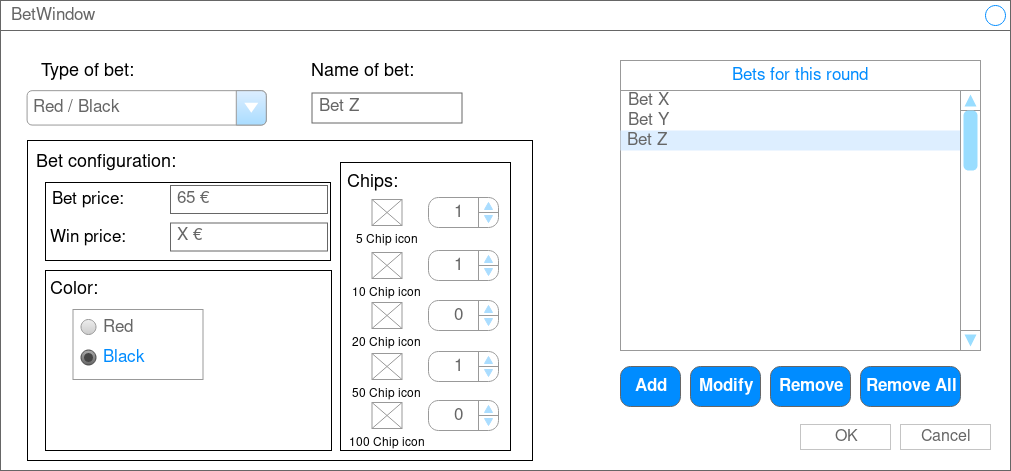
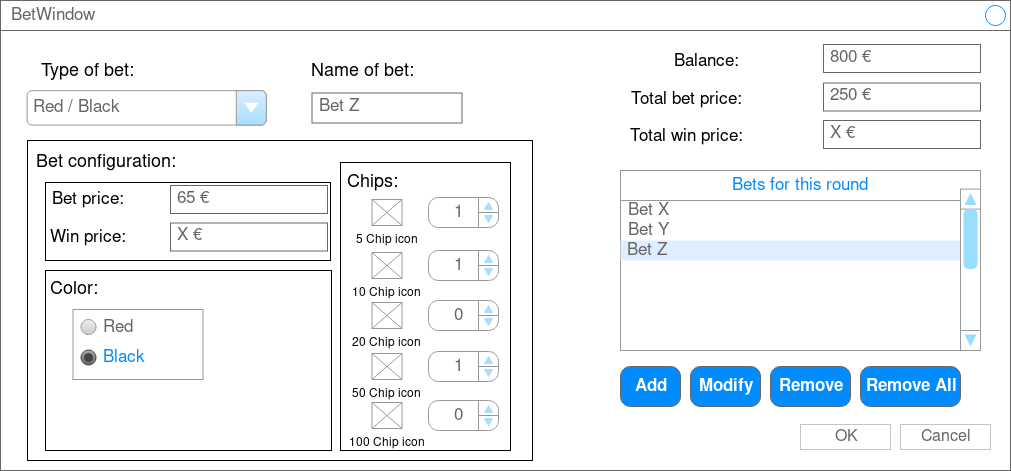
Working on the report.

Changed region(s): [[0.6133, 0.0892, 0.9812, 0.3864], [0.6133, 0.4161, 0.9812, 0.5648], [0.7052, 0.3567, 0.8586, 0.4161]]

diff --git a/cpm-seminar-uo258318.md b/cpm-seminar-uo258318.md
@@ -26,42 +26,60 @@ GameWindow (View Figure 1) is the main window and therefore  central part of the
 - **Log out**: button for logging out of the application.
 - **Menu**: menu for quick access of every other module in the application.
 
-## WelcomeWindow
+![GameWindow](multimedia/gamewindow.png){height=350px}
 
-WelcomeWindow (View Figure 2) is a dialog with a welcoming message that appears every time the application is started, prompting the user to either *Log In* or *Sing up* in order to use it. This two options are represented by means of buttons.
+## SignInWindow
 
-## LogInWindow
+SignInWindow (View Figure 2) is a dialog with a form that manages the credentials of the user. The user must have already signed up before being able to log in using this view. If the user has not signed up yet, he can do so by clicking on the *Sign Up* button located in the *New User* section.
 
-LogInWindow (View Figure 3) is a dialog with a form that manages the credentials of the user. The user must have already signed up before being able to log in using this view.
+![SingInWindow](multimedia/signwindow.png){height=350px}
 
 ## SignUpWindow
 
-SignUpWindow (View Figure 4) is a dialog with a form that manages the starting credentials of the user. The user must introduce their username and a desired password. Note that two users **can not share the same username**.
+SignUpWindow (View Figure 3) is a dialog with a form that manages the starting credentials of the user. The user must introduce their username and a desired password. Note that two users **can not share the same username**.
+
+![SignUpWindow](multimedia/signupwindow.png){height=350px}
 
 ## BankWindow
 
-BankWindow (View Figure 5) is a dialog with the user's current balance in euros and four buttons for:
+BankWindow (View Figure 4) is a dialog with the user's current balance in euros and four buttons for:
 
 - Recharging their *in-game* balance
 - Get chips for the roulette.
 - Transfer their *in-game* balance back to their bank account.
 - Transfer chips to *in-game* balance.
 
+![BankWindow](multimedia/bankwindow.png){height=350px}
+
+## BankCredentialsWindow
+
+BankCredentialsWindow (View Figure 5) is a dialog that manages the user's bank account credentials each time they want to perform an operation related to their bank account.
+
+![BankCredentialsWindow](multimedia/bankcredentialswindow.png){height=350px}
+
 ## RechargeWindow
 
-RechargeWindow (View Figure 6) is a dialog with a form asking the user for their bank card, secret code and the balance they want to extract from their account.
+RechargeWindow (View Figure 6) is a dialog with a form asking the user for the balance they want to extract from their account.
+
+![RechargeWindow](multimedia/rechargewindow.png){height=350px}
 
 ## ChipsWindow
 
-ChipsWindow (View Figure 7) is a dialog with all chip types and a correspondent spinner asking the user for the number of each type they want to extract. Spinners will keep adding chips until the balance threshold is reached.
+ChipsWindow (View Figure 7) is a dialog with all chip types and a correspondent spinner asking the user for the number of chips from each type they want to extract. Spinners will keep adding chips until the balance threshold is reached.
+
+![ChipsWindow](multimedia/chipswindow.png){height=350px}
 
 ## BalanceToBankWindow
 
-BalanceToBankWindow (View Figure 8) is a dialog that lets the user transfer their *in-game* balance back to their bank account.
+TransferWindow (View Figure 8) is a dialog that lets the user transfer their *in-game* balance back to their bank account.
+
+![TransferWindow](multimedia/transferwindow.png){height=350px}
 
 ## ChipsToBalanceWindow
 
 ChipsToBalanceWindow (View Figure 9) is a dialog that lets the user transfer their chips to *in-game* balance.
+
+![ChipsToBalanceWindow](multimedia/chipstobalancewindow.png){height=350px}
 
 ## BetWindow
 
@@ -69,12 +87,16 @@ BetWindow (View Figure 10) is a dialog that lets the user place their bets for t
 
 - A combo box with the different bets that the user can make. Depending on the selected one, the panel that manages the bet configuration will change for that specific type of bet.
 - Dynamic configuration panel with the current bet details and a button for placing it.
-- Text area showing all the bets the user has made for this round, with buttons for removing the selected bet or all of them.
+- Text area showing all the bets the user has made for this round, with buttons for adding a bet, modifying it, removing it or removing all of them.
 - Text fields informing the user for the total price of all current bets and the possible income if the user wins.
+
+![BetWindow](multimedia/betwindow.png){height=350px}
 
 ## BarWindow
 
-BarWindow (View Figure 11) is a dialog modeling the bar of the casino. It has a list of products for the user to select and add to the cart, as well as the total price for the order and the user's current balance. The cart is shown as well with the information of all the products in the order with their respective units.
+BarWindow (View Figure 11) is a dialog modeling the bar of the casino. It has a list of products for the user to select and add or remove to or from the cart, as well as the total price for the order and the user's current balance. The cart is shown as well with the information of all the products in the order with their respective units.
+
+![BarWindow](multimedia/barwindow.png){height=350px}
 
 
 
